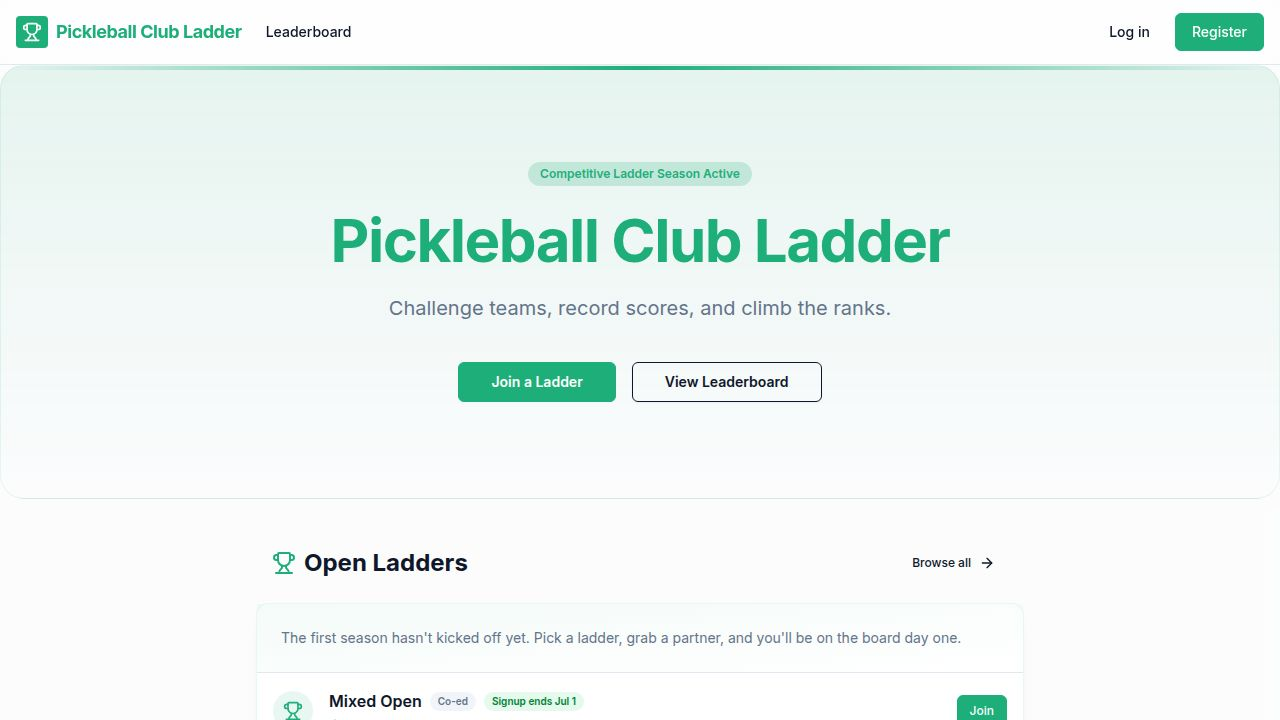
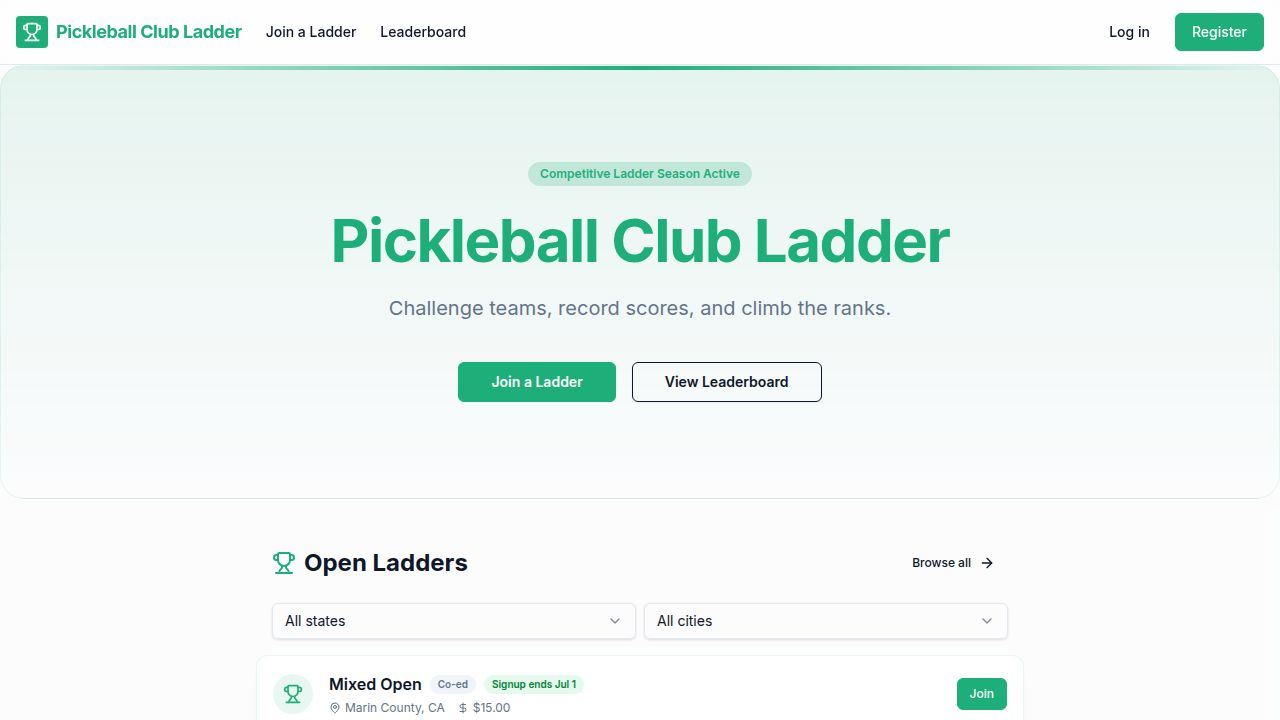
Make entry fees payable per player, not per team
Update backend and frontend to track individual player payments, modify payment intent creation to be per-player, and adjust UI to reflect individual payment status.

Replit-Commit-Author: Agent
Replit-Commit-Session-Id: 0fd07ea5-121f-44cd-82ed-805bea9907bc
Replit-Commit-Checkpoint-Type: full_checkpoint
Replit-Commit-Event-Id: 6113119b-91c3-43c7-ae74-f2f9e0301fda
Replit-Commit-Screenshot-Url: https://storage.googleapis.com/screenshot-production-us-central1/fd3254a7-a1af-426d-8596-146c30e1f111/0fd07ea5-121f-44cd-82ed-805bea9907bc/JS6tjfo
Replit-Helium-Checkpoint-Created: true

Changed region(s): [[0.2188, 0.8556, 0.75, 1.0], [0.75, 0.9167, 0.8125, 1.0], [0.2188, 0.0306, 0.375, 0.0611]]

diff --git a/artifacts/api-server/src/routes/payments.ts b/artifacts/api-server/src/routes/payments.ts
@@ -8,8 +8,33 @@ import { logger } from "../lib/logger";
 
 const router: IRouter = Router();
 
-// Webhook MUST receive raw body. This route is also mounted with raw parser
-// at the app level to ensure express.json() doesn't consume the body first.
+// Mark a specific player as paid, and if both teammates have paid, mark the team paid.
+async function markPlayerPaid(teamId: string, payerId: string, paymentIntentId: string) {
+  const [team] = await db.select().from(teamsTable).where(eq(teamsTable.id, teamId)).limit(1);
+  if (!team) return;
+
+  const patch: any = {};
+  if (team.player1Id === payerId && !team.player1PaidAt) {
+    patch.player1PaidAt = new Date();
+    patch.player1StripePaymentIntentId = paymentIntentId;
+  } else if (team.player2Id === payerId && !team.player2PaidAt) {
+    patch.player2PaidAt = new Date();
+    patch.player2StripePaymentIntentId = paymentIntentId;
+  }
+
+  const bothPaid =
+    (team.player1PaidAt || patch.player1PaidAt) && (team.player2PaidAt || patch.player2PaidAt);
+  if (bothPaid && team.paymentStatus !== "paid") {
+    patch.paymentStatus = "paid";
+  }
+
+  if (Object.keys(patch).length > 0) {
+    await db.update(teamsTable).set(patch).where(eq(teamsTable.id, teamId));
+    logger.info({ teamId, payerId, paymentIntentId, bothPaid }, "Player marked paid");
+  }
+}
+
+// Webhook MUST receive raw body.
 router.post(
   "/payments/webhook",
   express.raw({ type: "application/json" }),
@@ -27,7 +52,6 @@ router.post(
       if (secret && sig) {
         event = stripe.webhooks.constructEvent(req.body as Buffer, sig as string, secret);
       } else {
-        // Dev fallback: parse raw JSON without verification
         event = JSON.parse((req.body as Buffer).toString("utf8"));
         logger.warn("Stripe webhook signature not verified (no secret or signature)");
       }
@@ -41,16 +65,13 @@ router.post(
       if (event.type === "payment_intent.succeeded") {
         const pi = event.data.object;
         const teamId = pi.metadata?.teamId;
-        if (teamId) {
-          await db.update(teamsTable)
-            .set({ paymentStatus: "paid", stripePaymentIntentId: pi.id })
-            .where(eq(teamsTable.id, teamId));
-          logger.info({ teamId, paymentIntentId: pi.id }, "Team marked paid via webhook");
+        const payerId = pi.metadata?.payerId;
+        if (teamId && payerId) {
+          await markPlayerPaid(teamId, payerId, pi.id);
         }
       } else if (event.type === "payment_intent.payment_failed") {
         const pi = event.data.object;
-        const teamId = pi.metadata?.teamId;
-        logger.warn({ teamId, paymentIntentId: pi.id }, "Payment failed");
+        logger.warn({ teamId: pi.metadata?.teamId, payerId: pi.metadata?.payerId, paymentIntentId: pi.id }, "Payment failed");
       }
     } catch (err: any) {
       logger.error({ err: err?.message }, "Webhook handler error");
@@ -60,9 +81,7 @@ router.post(
   }
 );
 
-// Create a PaymentIntent for a team's entry fee
-// NOTE: This router is mounted BEFORE express.json() (so the webhook can use raw body),
-// so JSON-bodied routes need express.json() applied per-route.
+// Create a PaymentIntent for the CURRENT player's share of the entry fee.
 router.post("/payments/create-intent", express.json(), requireAuth, async (req, res): Promise<void> => {
   if (!isStripeConfigured()) {
     res.status(503).json({ error: "Payments are not configured on this server" });
@@ -80,12 +99,16 @@ router.post("/payments/create-intent", express.json(), requireAuth, async (req, 
     res.status(404).json({ error: "Team not found" });
     return;
   }
-  if (team.player1Id !== player.id && team.player2Id !== player.id) {
+  const isPlayer1 = team.player1Id === player.id;
+  const isPlayer2 = team.player2Id === player.id;
+  if (!isPlayer1 && !isPlayer2) {
     res.status(403).json({ error: "You are not on this team" });
     return;
   }
-  if (team.paymentStatus === "paid") {
-    res.status(400).json({ error: "This team has already been paid for" });
+
+  const myPaidAt = isPlayer1 ? team.player1PaidAt : team.player2PaidAt;
+  if (myPaidAt) {
+    res.status(400).json({ error: "You have already paid your entry fee" });
     return;
   }
 
@@ -101,12 +124,17 @@ router.post("/payments/create-intent", express.json(), requireAuth, async (req, 
   }
 
   const stripe = getStripe();
+  const myIntentId = isPlayer1 ? team.player1StripePaymentIntentId : team.player2StripePaymentIntentId;
 
   // Reuse existing intent if it's still actionable
-  if (team.stripePaymentIntentId) {
+  if (myIntentId) {
     try {
-      const existing = await stripe.paymentIntents.retrieve(team.stripePaymentIntentId);
-      if (existing.status === "requires_payment_method" || existing.status === "requires_confirmation" || existing.status === "requires_action") {
+      const existing = await stripe.paymentIntents.retrieve(myIntentId);
+      if (
+        existing.status === "requires_payment_method" ||
+        existing.status === "requires_confirmation" ||
+        existing.status === "requires_action"
+      ) {
         res.json({
           clientSecret: existing.client_secret,
           amount: existing.amount,
@@ -117,8 +145,8 @@ router.post("/payments/create-intent", express.json(), requireAuth, async (req, 
         return;
       }
       if (existing.status === "succeeded") {
-        await db.update(teamsTable).set({ paymentStatus: "paid" }).where(eq(teamsTable.id, team.id));
-        res.status(400).json({ error: "Already paid" });
+        await markPlayerPaid(team.id, player.id, existing.id);
+        res.status(400).json({ error: "You have already paid your entry fee" });
         return;
       }
     } catch (err: any) {
@@ -130,7 +158,7 @@ router.post("/payments/create-intent", express.json(), requireAuth, async (req, 
     amount: ladder.entryFeeCents,
     currency: "usd",
     automatic_payment_methods: { enabled: true },
-    description: `${ladder.name} entry fee — Team ${team.teamName}`,
+    description: `${ladder.name} entry fee — ${player.fullName}`,
     metadata: {
       teamId: team.id,
       ladderId: ladder.id,
@@ -139,9 +167,10 @@ router.post("/payments/create-intent", express.json(), requireAuth, async (req, 
     },
   });
 
-  await db.update(teamsTable)
-    .set({ stripePaymentIntentId: intent.id })
-    .where(eq(teamsTable.id, team.id));
+  const patch: any = {};
+  if (isPlayer1) patch.player1StripePaymentIntentId = intent.id;
+  else patch.player2StripePaymentIntentId = intent.id;
+  await db.update(teamsTable).set(patch).where(eq(teamsTable.id, team.id));
 
   res.json({
     clientSecret: intent.client_secret,
@@ -152,7 +181,7 @@ router.post("/payments/create-intent", express.json(), requireAuth, async (req, 
   });
 });
 
-// Allow client to confirm-by-poll after redirect (defensive — webhook is source of truth)
+// Client-triggered sync (defensive — webhook is source of truth) for the CURRENT player.
 router.post("/payments/sync/:teamId", express.json(), requireAuth, async (req, res): Promise<void> => {
   if (!isStripeConfigured()) {
     res.status(503).json({ error: "Stripe not configured" });
@@ -166,19 +195,23 @@ router.post("/payments/sync/:teamId", express.json(), requireAuth, async (req, r
     res.status(404).json({ error: "Team not found" });
     return;
   }
-  if (team.player1Id !== player.id && team.player2Id !== player.id) {
+  const isPlayer1 = team.player1Id === player.id;
+  const isPlayer2 = team.player2Id === player.id;
+  if (!isPlayer1 && !isPlayer2) {
     res.status(403).json({ error: "You are not on this team" });
     return;
   }
-  if (!team.stripePaymentIntentId) {
+  const myIntentId = isPlayer1 ? team.player1StripePaymentIntentId : team.player2StripePaymentIntentId;
+  if (!myIntentId) {
     res.json({ paymentStatus: team.paymentStatus });
     return;
   }
   const stripe = getStripe();
-  const pi = await stripe.paymentIntents.retrieve(team.stripePaymentIntentId);
-  if (pi.status === "succeeded" && team.paymentStatus !== "paid") {
-    await db.update(teamsTable).set({ paymentStatus: "paid" }).where(eq(teamsTable.id, team.id));
-    res.json({ paymentStatus: "paid" });
+  const pi = await stripe.paymentIntents.retrieve(myIntentId);
+  if (pi.status === "succeeded") {
+    await markPlayerPaid(team.id, player.id, pi.id);
+    const [fresh] = await db.select().from(teamsTable).where(eq(teamsTable.id, team.id)).limit(1);
+    res.json({ paymentStatus: fresh?.paymentStatus, myPaid: true });
     return;
   }
   res.json({ paymentStatus: team.paymentStatus, stripeStatus: pi.status });

diff --git a/artifacts/pickleball-ladders/src/pages/team.tsx b/artifacts/pickleball-ladders/src/pages/team.tsx
@@ -441,6 +441,7 @@ function TeamContent() {
 }
 
 function TeamCard({ team, ladders }: { team: any; ladders: any[] }) {
+  const { data: me } = useGetCurrentPlayer();
   const ladder = useMemo(
     () => ladders.find((x: any) => x.id === team.season?.ladderId),
     [ladders, team.season?.ladderId]
@@ -450,8 +451,17 @@ function TeamCard({ team, ladders }: { team: any; ladders: any[] }) {
   const { data: pos } = useGetMyLadderPosition({ ladder_id: team.season?.ladderId });
   const myStanding = pos?.myStanding;
 
-  const isUnpaid = team.paymentStatus === "unpaid";
+  const feeRequired = team.paymentStatus !== "not_required";
   const feeDollars = ladder?.entryFeeCents != null ? (ladder.entryFeeCents / 100).toFixed(2) : null;
+
+  const amIPlayer1 = me?.id === team.player1Id;
+  const amIPlayer2 = me?.id === team.player2Id;
+  const iPaid = amIPlayer1 ? !!team.player1PaidAt : amIPlayer2 ? !!team.player2PaidAt : false;
+  const partnerPaid = amIPlayer1 ? !!team.player2PaidAt : amIPlayer2 ? !!team.player1PaidAt : false;
+  const partnerName = amIPlayer1 ? team.player2?.fullName : amIPlayer2 ? team.player1?.fullName : null;
+
+  const fullyPaid = team.paymentStatus === "paid";
+  const showPayCta = feeRequired && !iPaid;
 
   return (
     <Card className="border-primary/20">
@@ -466,22 +476,27 @@ function TeamCard({ team, ladders }: { team: any; ladders: any[] }) {
         <div className="flex flex-wrap items-center gap-2 mt-2">
           <span className="text-sm text-muted-foreground">Team:</span>
           <span className="text-sm font-semibold break-words">{team.teamName}</span>
-          {team.paymentStatus === "paid" && (
-            <Badge variant="outline" className="text-[10px] border-green-300 text-green-700 bg-green-50">Paid</Badge>
+          {fullyPaid && (
+            <Badge variant="outline" className="text-[10px] border-green-300 text-green-700 bg-green-50">Team Paid</Badge>
           )}
-          {isUnpaid && (
+          {feeRequired && !fullyPaid && (
             <Badge variant="outline" className="text-[10px] border-amber-300 text-amber-700 bg-amber-50">Payment due</Badge>
           )}
         </div>
       </CardHeader>
       <CardContent>
-        {isUnpaid && (
+        {showPayCta && (
           <div className="mb-4 p-3 rounded-lg border border-amber-300 bg-amber-50 flex flex-col sm:flex-row sm:items-center gap-3">
             <div className="flex-1 min-w-0">
               <p className="text-sm font-semibold text-amber-900">
-                Pay the {feeDollars ? `$${feeDollars}` : ""} entry fee to start challenging.
+                Pay your {feeDollars ? `$${feeDollars}` : ""} entry fee to start challenging.
               </p>
-              <p className="text-xs text-amber-800 mt-0.5">Either teammate can pay for the team.</p>
+              <p className="text-xs text-amber-800 mt-0.5">
+                Each player pays their own entry fee.
+                {partnerName && (partnerPaid
+                  ? ` ${partnerName} has paid.`
+                  : ` ${partnerName} hasn't paid yet.`)}
+              </p>
             </div>
             <Button asChild size="sm" className="shrink-0" data-testid={`btn-pay-${team.id}`}>
               <Link href={`/pay/${team.id}`}>
@@ -491,14 +506,35 @@ function TeamCard({ team, ladders }: { team: any; ladders: any[] }) {
             </Button>
           </div>
         )}
+        {feeRequired && iPaid && !partnerPaid && partnerName && (
+          <div className="mb-4 p-3 rounded-lg border border-blue-300 bg-blue-50 text-sm">
+            <p className="text-blue-900">
+              <span className="font-semibold">You're paid up.</span> Waiting on {partnerName} to pay before your team can challenge or be challenged.
+            </p>
+          </div>
+        )}
         <div className="grid grid-cols-1 sm:grid-cols-2 gap-4 sm:gap-6">
           <div className="min-w-0">
-            <p className="text-xs text-muted-foreground uppercase tracking-wide mb-1">Player 1</p>
+            <div className="flex items-center gap-2 mb-1">
+              <p className="text-xs text-muted-foreground uppercase tracking-wide">Player 1</p>
+              {feeRequired && (
+                team.player1PaidAt
+                  ? <Badge variant="outline" className="text-[10px] border-green-300 text-green-700 bg-green-50">Paid</Badge>
+                  : <Badge variant="outline" className="text-[10px] border-amber-300 text-amber-700 bg-amber-50">Unpaid</Badge>
+              )}
+            </div>
             <p className="font-semibold break-words">{team.player1?.fullName ?? "—"}</p>
             <p className="text-sm text-muted-foreground break-all">{team.player1?.email ?? ""}</p>
           </div>
           <div className="min-w-0">
-            <p className="text-xs text-muted-foreground uppercase tracking-wide mb-1">Player 2</p>
+            <div className="flex items-center gap-2 mb-1">
+              <p className="text-xs text-muted-foreground uppercase tracking-wide">Player 2</p>
+              {feeRequired && (
+                team.player2PaidAt
+                  ? <Badge variant="outline" className="text-[10px] border-green-300 text-green-700 bg-green-50">Paid</Badge>
+                  : <Badge variant="outline" className="text-[10px] border-amber-300 text-amber-700 bg-amber-50">Unpaid</Badge>
+              )}
+            </div>
             <p className="font-semibold break-words">{team.player2?.fullName ?? "—"}</p>
             <p className="text-sm text-muted-foreground break-all">{team.player2?.email ?? ""}</p>
           </div>

diff --git a/artifacts/pickleball-ladders/src/pages/pay.tsx b/artifacts/pickleball-ladders/src/pages/pay.tsx
@@ -1,7 +1,7 @@
 import { useEffect, useMemo, useState } from "react";
 import { useParams, Link, useLocation } from "wouter";
 import { Elements, PaymentElement, useStripe, useElements } from "@stripe/react-stripe-js";
-import { useCreatePaymentIntent, useGetMyTeams, useListLadders } from "@workspace/api-client-react";
+import { useCreatePaymentIntent, useGetCurrentPlayer, useGetMyTeams, useListLadders } from "@workspace/api-client-react";
 import { MainLayout } from "@/components/layout/main-layout";
 import { ProtectedRoute } from "@/components/layout/protected-route";
 import { Card, CardContent, CardHeader, CardTitle } from "@/components/ui/card";
@@ -20,6 +20,7 @@ export default function Pay() {
 
 function PayContent() {
   const { teamId } = useParams<{ teamId: string }>();
+  const { data: me } = useGetCurrentPlayer();
   const { data: myTeams } = useGetMyTeams();
   const { data: ladders } = useListLadders();
   const { toast } = useToast();
@@ -33,6 +34,10 @@ function PayContent() {
     [ladders, team]
   );
 
+  const amIPlayer1 = me && team && me.id === team.player1Id;
+  const amIPlayer2 = me && team && me.id === team.player2Id;
+  const iPaid = amIPlayer1 ? !!team?.player1PaidAt : amIPlayer2 ? !!team?.player2PaidAt : false;
+
   const createIntent = useCreatePaymentIntent();
   const [clientSecret, setClientSecret] = useState<string | null>(null);
   const [intentInfo, setIntentInfo] = useState<{ amount: number; currency: string } | null>(null);
@@ -40,8 +45,8 @@ function PayContent() {
 
   useEffect(() => {
     if (!teamId || clientSecret) return;
-    if (team && team.paymentStatus === "paid") return;
     if (team && team.paymentStatus === "not_required") return;
+    if (iPaid) return;
 
     createIntent.mutate(
       { data: { teamId } },
@@ -72,13 +77,19 @@ function PayContent() {
     );
   }
 
-  if (team?.paymentStatus === "paid") {
+  if (team && iPaid) {
+    const partnerName = amIPlayer1 ? team.player2?.fullName : team.player1?.fullName;
+    const partnerPaid = amIPlayer1 ? !!team.player2PaidAt : !!team.player1PaidAt;
     return (
       <MainLayout>
         <div className="max-w-xl mx-auto py-12 px-4 text-center">
           <CheckCircle className="w-10 h-10 text-green-600 mx-auto mb-3" />
-          <h1 className="text-2xl font-bold mb-2">Already paid</h1>
-          <p className="text-muted-foreground mb-4">Your team is paid up for {ladder?.name ?? "this ladder"}.</p>
+          <h1 className="text-2xl font-bold mb-2">You're paid up</h1>
+          <p className="text-muted-foreground mb-4">
+            You've paid your entry fee for {ladder?.name ?? "this ladder"}.
+            {partnerName && !partnerPaid && ` Waiting on ${partnerName} to pay their fee before your team can challenge.`}
+            {partnerName && partnerPaid && ` Your team is fully paid up — go challenge!`}
+          </p>
           <Link href="/team"><Button>Back to my teams</Button></Link>
         </div>
       </MainLayout>

diff --git a/lib/db/src/schema/teams.ts b/lib/db/src/schema/teams.ts
@@ -13,6 +13,10 @@ export const teamsTable = pgTable("teams", {
   status: text("status").notNull().default("pending"),
   paymentStatus: text("payment_status").notNull().default("not_required"),
   stripePaymentIntentId: text("stripe_payment_intent_id"),
+  player1PaidAt: timestamp("player1_paid_at", { withTimezone: true }),
+  player2PaidAt: timestamp("player2_paid_at", { withTimezone: true }),
+  player1StripePaymentIntentId: text("player1_stripe_payment_intent_id"),
+  player2StripePaymentIntentId: text("player2_stripe_payment_intent_id"),
   createdAt: timestamp("created_at", { withTimezone: true }).notNull().defaultNow(),
 }, (t) => [
   uniqueIndex("teams_season_player1_unique").on(t.seasonId, t.player1Id),